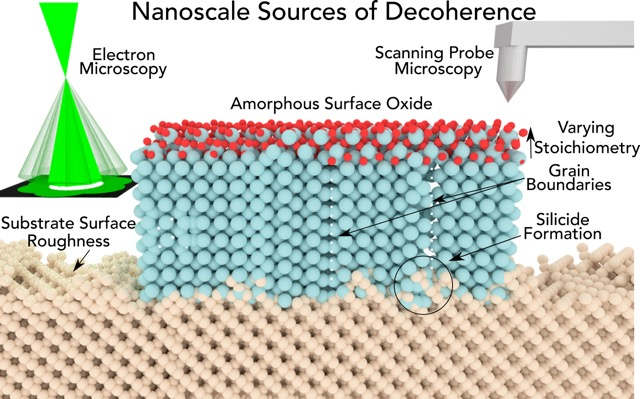
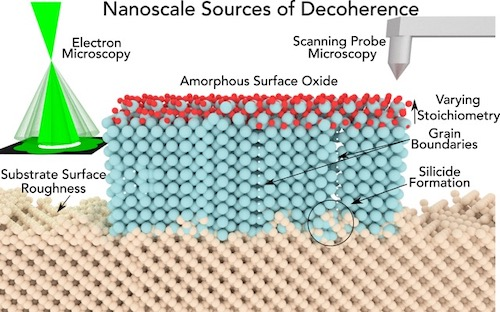
Updated size/convert to jpeg for Figures

diff --git a/src/Screens/Research/Research-2.js b/src/Screens/Research/Research-2.js
@@ -1,6 +1,6 @@
 import React from "react";
 import { Research2Text } from "../../Text/IndividualResearchPages/Research-2";
-import Research2Figure from "../../assets/Figure2.png";
+import Research2Figure from "../../assets/Figure2.jpeg";
 import {
   Research2Publication1,
   Research2Publication2,

diff --git a/src/Screens/Research.js b/src/Screens/Research.js
@@ -11,7 +11,7 @@ import {
   MDBRipple,
 } from "mdb-react-ui-kit";
 import Figure1 from "../assets/Figure1.jpeg";
-import Figure2 from "../assets/Figure2.png";
+import Figure2 from "../assets/Figure2.jpeg";
 import Figure3 from "../assets/Figure3.png";
 import {
   Research1,
